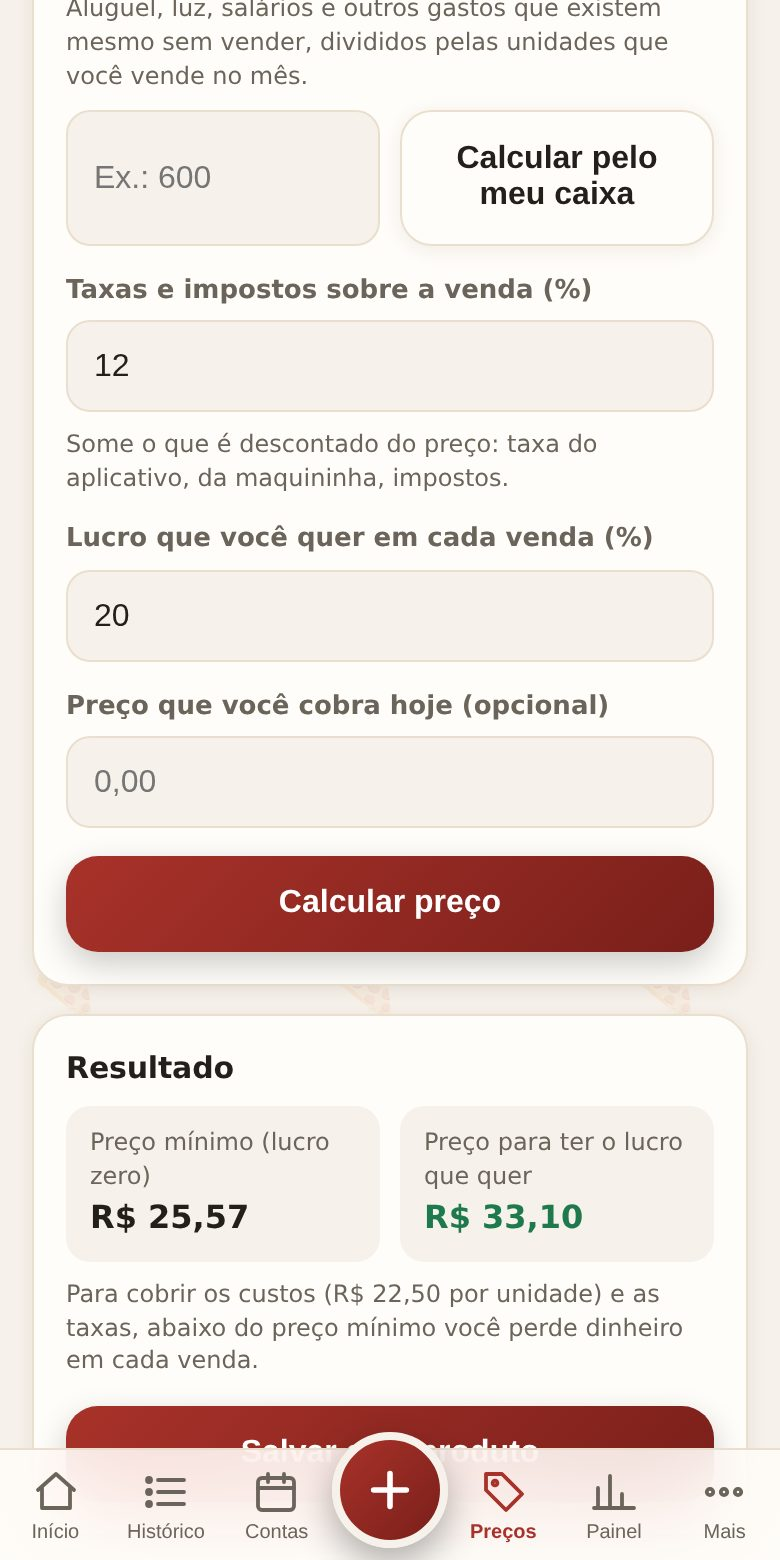
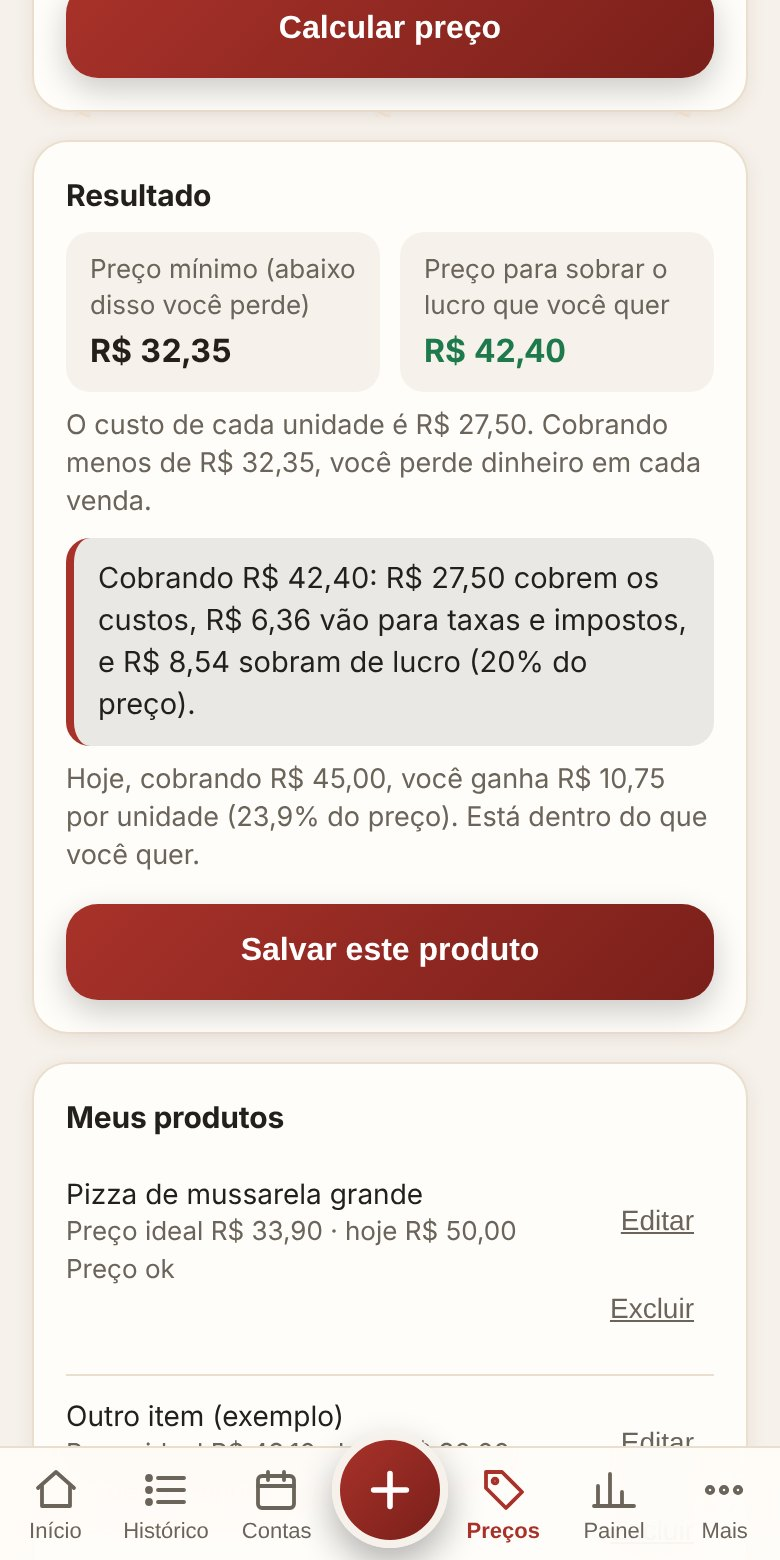
Site: tabela de planos cabe no celular, livros ligados à home, imagem de prévia nos links, origem da venda no checkout, sitemap
- Comparação Básico x Avançado sem corte no celular e com a linha Salário do Dono
- Home e rodapés com link para os livros e para o TikTok
- og:image para prévia no WhatsApp, TikTok e Instagram
- Botões de compra levam a origem (src) para a Hotmart
- Nova imagem da tela de Preços; pergunta sobre troca de celular
- Remove relatório interno que estava público

Claude-Session: https://claude.ai/code/session_01CgEm9t8c11N3stfZ2Qi4vU

diff --git a/financas/index.html b/financas/index.html
@@ -5,6 +5,12 @@
 <meta name="viewport" content="width=device-width, initial-scale=1">
 <title>Meu Painel do Dono – saiba quanto sobra no seu negócio</title>
 <meta name="description" content="Aplicativo de controle financeiro para pequeno comércio: caixa, lucro, preços, contas a pagar e a receber. Pagamento único, sem mensalidade. Seus dados ficam só no seu celular.">
+<meta property="og:title" content="Meu Painel do Dono – saiba quanto sobra no seu negócio">
+<meta property="og:description" content="Caixa, lucro, preços e contas do seu comércio no celular. Pagamento único, garantia de 7 dias.">
+<meta property="og:image" content="https://somosbumeran.com.br/assets/icon-512.png">
+<meta property="og:type" content="website">
+<meta property="og:url" content="https://somosbumeran.com.br/financas/">
+<meta name="twitter:card" content="summary">
 <meta name="theme-color" content="#03152f">
 <link rel="icon" href="favicon.png">
 <link rel="apple-touch-icon" href="favicon.png">
@@ -82,7 +88,7 @@ section{padding:84px 0;position:relative}
 
 /* tabela */
 .tw{overflow-x:auto;border:1px solid var(--line);border-radius:var(--r);background:var(--glass)}
-table{width:100%;border-collapse:collapse;min-width:520px}
+table{width:100%;border-collapse:collapse}@media(max-width:560px){th,td{padding:12px 8px!important;font-size:14px!important}thead th{font-size:11px!important;letter-spacing:.04em!important}td small{display:block}}
 th,td{padding:15px 18px;text-align:center;border-bottom:1px solid var(--line);font-size:15px}
 th:first-child,td:first-child{text-align:left}
 thead th{font-size:13px;letter-spacing:.1em;text-transform:uppercase;color:var(--mut)}
@@ -257,6 +263,7 @@ footer a{color:var(--mut);text-decoration:none}
         <tr><td><b>Meta do mês</b></td><td class="n">—</td><td class="y hl">✓</td></tr>
         <tr><td><b>Ponto de equilíbrio</b></td><td class="n">—</td><td class="y hl">✓</td></tr>
         <tr><td><b>Relatório mensal em PDF</b></td><td class="n">—</td><td class="y hl">✓</td></tr>
+        <tr><td><b>Salário do Dono:</b> quanto você pode tirar</td><td class="n">—</td><td class="y hl">✓</td></tr>
         <tr><td>Preço</td><td><b>R$ 47</b></td><td class="hl"><b>R$ 97</b> <small>(inauguração; depois R$ 127)</small></td></tr>
       </tbody></table></div>
   </div>
@@ -316,6 +323,7 @@ footer a{color:var(--mut);text-decoration:none}
       <details><summary>Como ativo depois de comprar?</summary><p>Você recebe um link pessoal de ativação (se não chegar, é só chamar no WhatsApp). Abra-o uma vez no celular e o aplicativo está ativado. Depois, instale na tela inicial. Não compartilhe o seu link: ele é individual e pode ser desativado.</p></details>
       <details><summary>Funciona em iPhone e Android?</summary><p>Sim. No Android, abra o link no Chrome e toque em "Instalar" ou "Adicionar à tela inicial". No iPhone, abra no Safari, toque em Compartilhar e depois em "Adicionar à Tela de Início".</p></details>
       <details><summary>Posso passar do Básico para o Avançado?</summary><p>Sim. Baixe o backup no Básico e restaure no Avançado: os seus lançamentos vão junto.</p></details>
+      <details><summary>E se eu trocar de celular?</summary><p>Antes de trocar, baixe o backup na aba Mais. No celular novo, abra o seu link de ativação (ou cole o código, que fica em Mais, Minha licença) e toque em Restaurar backup. Tudo volta como estava.</p></details>
       <details><summary>Vale para mais de um celular?</summary><p>A licença é individual, para o dono do negócio. Cada aparelho guarda os próprios dados.</p></details>
       <details><summary>Substitui o contador?</summary><p>Não. O Meu Painel do Dono organiza e mostra indicadores a partir do que você lança. Não é orientação contábil, fiscal nem de investimento.</p></details>
     </div>
@@ -331,7 +339,7 @@ footer a{color:var(--mut);text-decoration:none}
 </section>
 
 <footer><div class="w">
-  <p style="margin:0 0 8px"><a href="../">Bumerân</a> · Meu Painel do Dono, uma solução Bumerân Finanças · <a href="https://instagram.com/bumeran_edu" target="_blank" rel="noopener">@bumeran_edu</a></p>
+  <p style="margin:0 0 8px"><a href="../">Bumerân</a> · Meu Painel do Dono, uma solução Bumerân Finanças · <a href="https://instagram.com/bumeran_edu" target="_blank" rel="noopener">Instagram</a> · <a href="https://tiktok.com/@bumeranedu" target="_blank" rel="noopener">TikTok</a> · <a href="../livros/">Livros</a></p>
   <p style="margin:0;max-width:760px">A Bumerân não é banco, instituição financeira, escritório contábil nem auditoria. O aplicativo organiza os dados que você mesmo lança e não substitui um contador.</p>
 </div></footer>
 
@@ -352,8 +360,8 @@ var NOMES = { basico: "Básico", avancado: "Avançado", raiox: "Raio-X mensal" }
   if (WHATSAPP && w2) { w2.hidden = false; w2.target = "_blank"; w2.rel = "noopener"; w2.href = "https://wa.me/" + WHATSAPP + "?text=" + encodeURIComponent("Oi! Vim pelo site e tenho uma dúvida sobre o Meu Painel do Dono."); }
   document.querySelectorAll("[data-buy]").forEach(function (b) {
     b.addEventListener("click", function () {
-      var p = b.getAttribute("data-buy");
-      if (CHECKOUT[p]) { location.href = CHECKOUT[p]; return; }
+var p = b.getAttribute("data-buy");
+      if (CHECKOUT[p]) { var u = CHECKOUT[p], m = location.search.match(/[?&](?:src|utm_source)=([A-Za-z0-9_\-]{1,40})/); location.href = u + "&src=" + (m ? m[1] : "site"); return; }
       aviso("Compra liberada em breve. Dúvidas? Chame no WhatsApp pelo botão verde.");
     });
   });

diff --git a/index.html b/index.html
@@ -8,6 +8,10 @@
 <meta name="theme-color" content="#03152f">
 <meta property="og:title" content="Bumerân – educação e finanças para quem empreende">
 <meta property="og:description" content="Saiba quanto sobra de verdade no seu negócio. Educação financeira e ferramentas simples.">
+<meta property="og:image" content="https://somosbumeran.com.br/assets/icon-512.png">
+<meta property="og:type" content="website">
+<meta property="og:url" content="https://somosbumeran.com.br/">
+<meta name="twitter:card" content="summary">
 <link rel="icon" href="favicon.png">
 <link rel="apple-touch-icon" href="favicon.png">
 <style>
@@ -84,7 +88,7 @@ section{padding:96px 0;position:relative}
 .ico svg{width:24px;height:24px;stroke:var(--o1);fill:none;stroke-width:2;stroke-linecap:round;stroke-linejoin:round}
 .card h3{font-size:20px;margin-bottom:8px}.card p{color:var(--mut);margin:0}
 
-.ng{grid-template-columns:repeat(auto-fit,minmax(210px,1fr))}@media(min-width:1000px){.ng{grid-template-columns:repeat(5,1fr)}}.nc{padding:22px}.nc .em{font-size:30px;margin-bottom:10px}.nc h3{font-size:18px;margin-bottom:6px}.nc p{font-size:14.5px}
+.ng{grid-template-columns:repeat(auto-fit,minmax(150px,1fr))}@media(max-width:520px){.ng{gap:12px}.ng .nc{padding:16px}}@media(min-width:1000px){.ng{grid-template-columns:repeat(5,1fr)}}.nc{padding:22px}.nc .em{font-size:30px;margin-bottom:10px}.nc h3{font-size:18px;margin-bottom:6px}.nc p{font-size:14.5px}
 /* steps */
 .steps{counter-reset:s}
 .step{position:relative;padding-top:8px}
@@ -169,6 +173,7 @@ footer a{color:var(--mut);text-decoration:none}footer a:hover{color:#fff}
       <a href="#como">Como funciona</a>
       <a href="#solucoes">Soluções</a>
       <a href="#exemplos">Exemplos</a>
+      <a href="livros/">Livros</a>
       <a href="#duvidas">Dúvidas</a>
     </nav>
     <a class="btn sm g" href="financas/calculadora/"><span class="lg">Calculadora grátis</span><span class="sh">Calculadora</span></a>
@@ -198,7 +203,7 @@ footer a{color:var(--mut);text-decoration:none}footer a:hover{color:#fff}
         <a class="btn" href="financas/">Conhecer o Meu Painel do Dono</a>
         <a class="btn g" href="https://instagram.com/bumeran_edu" target="_blank" rel="noopener">Seguir @bumeran_edu</a>
       </div>
-      <div class="trust"><span>Sem mensalidade</span><span>Dados só no seu celular</span><span>Funciona sem internet</span></div>
+      <div class="trust"><span>Aplicativo sem mensalidade</span><span>Dados só no seu celular</span><span>Funciona sem internet</span></div>
     </div>
     <div class="phones" aria-hidden="true">
       <div class="ph p1"><img src="assets/app-hist.jpg" alt="" loading="eager"></div>
@@ -257,6 +262,11 @@ footer a{color:var(--mut);text-decoration:none}footer a:hover{color:#fff}
         <div><div class="tag">Finanças</div><h3>Bumerân Finanças</h3>
         <p>Ferramentas para organizar as contas do negócio. A primeira: o Meu Painel do Dono, aplicativo de caixa, lucro, preços e contas.</p></div>
         <a class="l" href="financas/">Ver o Meu Painel do Dono →</a>
+      </div>
+      <div class="card big rv d1">
+        <div><div class="tag">Livros</div><h3>Guias de bolso</h3>
+        <p>Três livros curtos em PDF, com linguagem de balcão: Preço Certo, Salário do Dono e Fiado, sem susto. R$ 19,90 cada ou R$ 49,90 os três.</p></div>
+        <a class="l" href="livros/">Ver os livros →</a>
       </div>
     </div>
   </div>
@@ -377,6 +387,8 @@ footer a{color:var(--mut);text-decoration:none}footer a:hover{color:#fff}
     <div>
       <p style="margin:0 0 6px"><a href="financas/">Meu Painel do Dono</a></p>
       <p style="margin:0 0 6px"><a href="financas/calculadora/">Calculadora grátis</a></p>
+      <p style="margin:0 0 6px"><a href="livros/">Livros Bumerân</a></p>
+      <p style="margin:0 0 6px"><a href="https://tiktok.com/@bumeranedu" target="_blank" rel="noopener">TikTok @bumeranedu</a></p>
       <p style="margin:0 0 6px"><a href="https://instagram.com/bumeran_edu" target="_blank" rel="noopener">Instagram @bumeran_edu</a></p>
       <p style="margin:14px 0 0">© 2026 Bumerân</p>
     </div>

diff --git a/livros/index.html b/livros/index.html
@@ -5,6 +5,12 @@
 <meta name="viewport" content="width=device-width, initial-scale=1">
 <title>Livros Bumerân Finanças – preço, salário e fiado do pequeno comércio</title>
 <meta name="description" content="Três guias práticos para quem tem comércio de bairro: como formar o preço certo, como pagar o seu salário sem quebrar o caixa e como vender fiado sem susto. PDF, R$ 19,90 cada.">
+<meta property="og:title" content="Livros Bumerân Finanças">
+<meta property="og:description" content="Preço, salário e fiado do pequeno comércio, em três guias simples. R$ 19,90 cada.">
+<meta property="og:image" content="https://somosbumeran.com.br/assets/icon-512.png">
+<meta property="og:type" content="website">
+<meta property="og:url" content="https://somosbumeran.com.br/livros/">
+<meta name="twitter:card" content="summary">
 <meta name="theme-color" content="#03152f">
 <link rel="icon" href="../favicon.png">
 <style>
@@ -101,8 +107,8 @@ var CHECKOUT = { preco: "https://pay.hotmart.com/S107893212N?off=d63bn9od", sala
 var NOMES = { preco: "Preço Certo", salario: "Salário do Dono", fiado: "Fiado, sem susto", pacote: "pacote com os três livros" };
 document.querySelectorAll("[data-buy]").forEach(function (b) {
   b.addEventListener("click", function () {
-    var p = b.getAttribute("data-buy");
-    if (CHECKOUT[p]) { location.href = CHECKOUT[p]; return; }
+var p = b.getAttribute("data-buy");
+    if (CHECKOUT[p]) { var u = CHECKOUT[p], m = location.search.match(/[?&](?:src|utm_source)=([A-Za-z0-9_\-]{1,40})/); location.href = u + "&src=" + (m ? m[1] : "site"); return; }
     var t = document.createElement("div"); t.textContent = "Compra liberada em breve. Dúvidas? Chame no WhatsApp pelo botão verde.";
     t.style.cssText = "position:fixed;left:50%;bottom:84px;transform:translateX(-50%);background:#0b1530;color:#fff;padding:12px 18px;border-radius:12px;font:600 14px system-ui,sans-serif;z-index:70;max-width:90vw;text-align:center";
     document.body.appendChild(t); setTimeout(function () { t.remove(); }, 4200);
